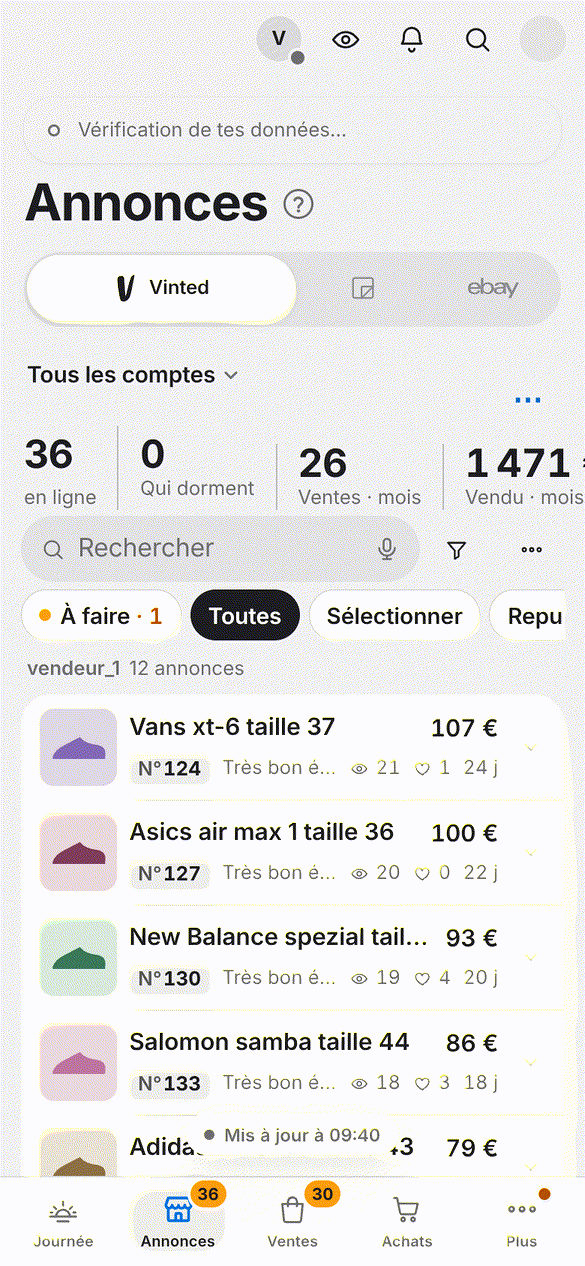
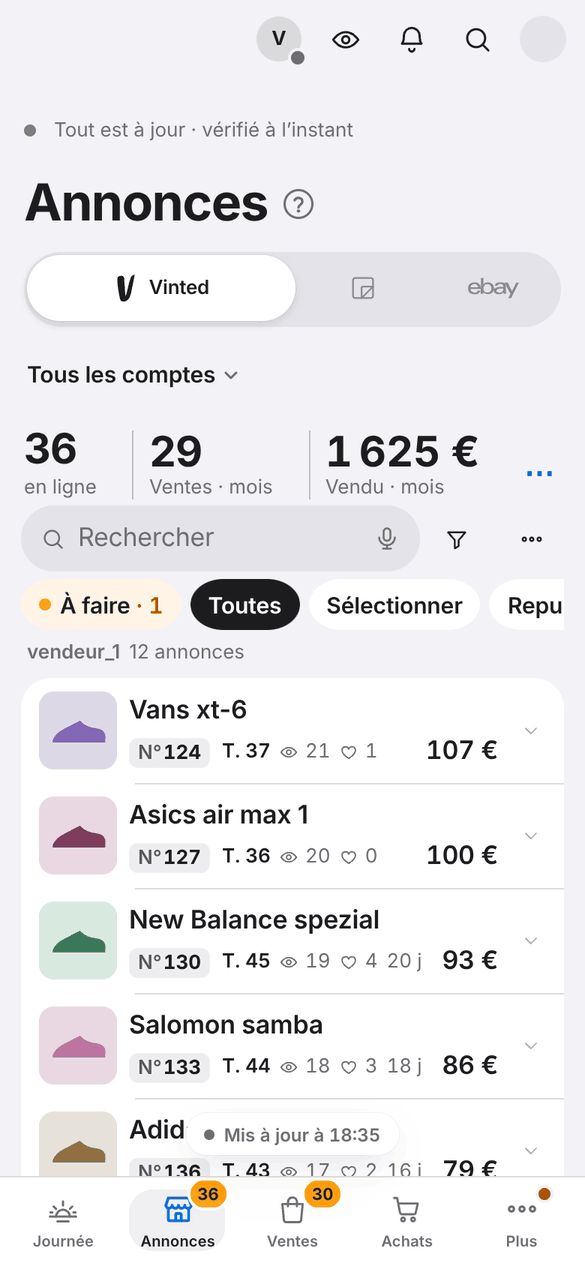
Refonte des listes : passe finale (bande sans « en li… », chiffres de rangée jamais coupés, raison du Bénéfice sur deux lignes, captures avant/après refaites)
Claude-Session: https://claude.ai/code/session_012UsEbcF3XbBnmXpwYyNnbn

diff --git a/src/styles-listes.css b/src/styles-listes.css
@@ -36,7 +36,10 @@
   font-weight: 700 !important; font-variant-numeric: tabular-nums !important; color: var(--d-heros-encre, #F5F5F7) !important;
 }
 :root:root body .vrm-main[data-ecran="journee"] .vrm-fu-tete.vrm-day-greeting .vrm-fu-grand.is-vide { font-size: 28px !important; font-weight: 400 !important; }
-:root:root body .vrm-main[data-ecran="journee"] .vrm-fu-tete.vrm-day-greeting .vrm-fu-sous { margin-top: 4px !important; font-size: 13px !important; font-weight: 600 !important; color: var(--d-heros-gris, rgba(235,235,245,.64)) !important; white-space: nowrap !important; overflow: hidden !important; text-overflow: ellipsis !important; }
+:root:root body .vrm-main[data-ecran="journee"] .vrm-fu-tete.vrm-day-greeting .vrm-fu-sous:not(.vrm-fu-case .vrm-fu-sous) { margin-top: 4px !important; font-size: 13px !important; font-weight: 600 !important; color: var(--d-heros-gris, rgba(235,235,245,.64)) !important; white-space: nowrap !important; overflow: hidden !important; text-overflow: ellipsis !important; }
+/* (14 nov., capture finale) Dans une case (« Bénéfice · mois — prix d’achat manquants »), la raison du « — » garde ses deux lignes : coupée, elle ne dit plus rien. */
+:root:root:root:root:root body .vrm-main[data-ecran="journee"] .vrm-fu-case > .vrm-fu-case-raison { display: -webkit-box !important; -webkit-box-orient: vertical !important; white-space: normal !important; overflow: hidden !important; text-overflow: clip !important; -webkit-line-clamp: 2 !important; }
+:root:root:root body .vrm-main[data-ecran="journee"] .vrm-fu-tete .vrm-fu-case .vrm-fu-sous { white-space: normal !important; overflow: visible !important; text-overflow: clip !important; -webkit-line-clamp: 2 !important; }
 @media (min-width: 1024px) {
   :root:root body .vrm-main[data-ecran="journee"] .vrm-fu-tete.vrm-day-greeting :is(.vrm-fu-grand, .vrm-jv2-grand:not(.is-zero)) { font-size: var(--d-t-affiche-64, 64px) !important; }
 }
@@ -387,6 +390,17 @@
   /* La bande : trois chiffres au plus au téléphone ; « ⋯ » au bout de la même rangée (jamais seul au-dessus). */
   :root:root:root body .vrm-main .vrm-fu-bande > .vrm-ui-bande-item:not(.vrm-sr-seul) ~ .vrm-ui-bande-item:not(.vrm-sr-seul) ~ .vrm-ui-bande-item:not(.vrm-sr-seul) ~ .vrm-ui-bande-item { display: none !important; }
   :root:root:root body .vrm-main[data-ecran="annonces"] .vrm-fu-bande > .vrm-fu-bande-action { position: static !important; }
+  /* (14 nov., capture finale) Le premier chiffre ne rétrécit plus (« 36 en li… ») : chaque case garde sa largeur, l'écart
+     se resserre (8 + 10). Sous le nom, les chiffres de la paire passent à la ligne suivante, cachée, plutôt que d'être
+     coupés au milieu d'un caractère (« 2… ») : ce qui ne tient pas est dans la fiche ouverte. */
+  :root:root:root:root body .vrm-main .vrm-fu-bande { column-gap: 8px !important; }
+  :root:root:root:root body .vrm-main .vrm-fu-bande > .vrm-ui-bande-item:not(.vrm-sr-seul) { flex-shrink: 0 !important; white-space: nowrap !important; }
+  :root:root:root:root body .vrm-main .vrm-fu-bande > .vrm-sr-seul { position: absolute !important; }
+  :root:root:root:root:root body .vrm-main .vrm-fu-bande.vrm-ui-bande { padding: 0 0 2px !important; }
+  :root:root:root:root:root body .vrm-main .vrm-fu-bande .vrm-fu-bande-grand > .vrm-fu-grand { margin: 0 !important; line-height: 1.1 !important; }
+  :root:root:root:root:root body .vrm-main .vrm-fu-bande .vrm-fu-bande-grand > .vrm-fu-sous { margin: 0 !important; }
+  :root:root:root:root body .vrm-main .vrm-fu-bande > .vrm-ui-bande-item + .vrm-ui-bande-item { padding-left: 10px !important; }
+  :root:root:root:root body .vrm-main .vrm-ann-vignettes > .vrm-vignette[data-fiche-ouverte="0"] [data-stats-annonce] { flex-wrap: wrap !important; column-gap: 6px !important; row-gap: 0 !important; height: 18px !important; line-height: 18px !important; overflow: hidden !important; -webkit-mask-image: none !important; mask-image: none !important; }
   /* « À expédier » : N° + titre de la paire sur UNE ligne. */
   :root:root:root body .vrm-main .vrm-colis-section .vrm-colis-carte[data-bord-card] .vrm-colis-titre { -webkit-line-clamp: 1 !important; line-clamp: 1 !important; white-space: nowrap !important; display: block !important; text-overflow: ellipsis !important; }
   :root:root:root body .vrm-main .vrm-colis-section .vrm-colis-onglets { display: flex !important; align-items: center !important; gap: 6px !important; }

diff --git a/docs/passation/2026-11-14-refonte-listes.md b/docs/passation/2026-11-14-refonte-listes.md
@@ -89,6 +89,17 @@ textes `listes.*` (5 langues, `src/i18n/langues/<l>/listes.js`). La carte régla
 | annonces-actions | 2 | 4 | F 1512 (cibles 36 px souris) : de main |
 | design-passe-2 | 8 coupes (« Tout imprimer » secondaire, corrigé) + 26 écrans non mesurés (délai) | — | relancé en fin de lot |
 
+## Dernière passe (captures finales, 14 nov. soir)
+
+- Les captures avant/après de Ma journée étaient identiques : le « bilan en une minute » (accueil des nouveaux)
+  couvrait l'écran des deux côtés. L'outil de capture clique « Passer » ; les deux images montrent Ma journée.
+- Vu sur les captures et corrigé : « 36 en li… » (la première case de la bande rétrécissait), les chiffres d'une
+  rangée d'Annonces coupés au milieu d'un caractère (« 2… » : ce qui ne tient pas passe maintenant à une ligne
+  cachée), la raison « prix d'achat manquants » coupée dans la case Bénéfice de Ma journée (deux lignes).
+- La bande d'Annonces perd 17 px (texte réservé aux lecteurs d'écran sorti du flux, marges du grand chiffre) :
+  1re rangée à 408 px sous la coque (max 422), Ventes 391 px. `refonte-listes` forme VERT, `design-passe`
+  (journée, ventes, colis, annonces) VERT, build OK.
+
 ## Restes (honnêtes)
 - La maquette met le **site et le compte dans UN menu** (« Vinted · tous ▾ ») sur la rangée de la recherche,
   et le segment « Annonces | Stock | Achats » : ce sont la coque (onglets « Paires ») et le filtre des sites —
